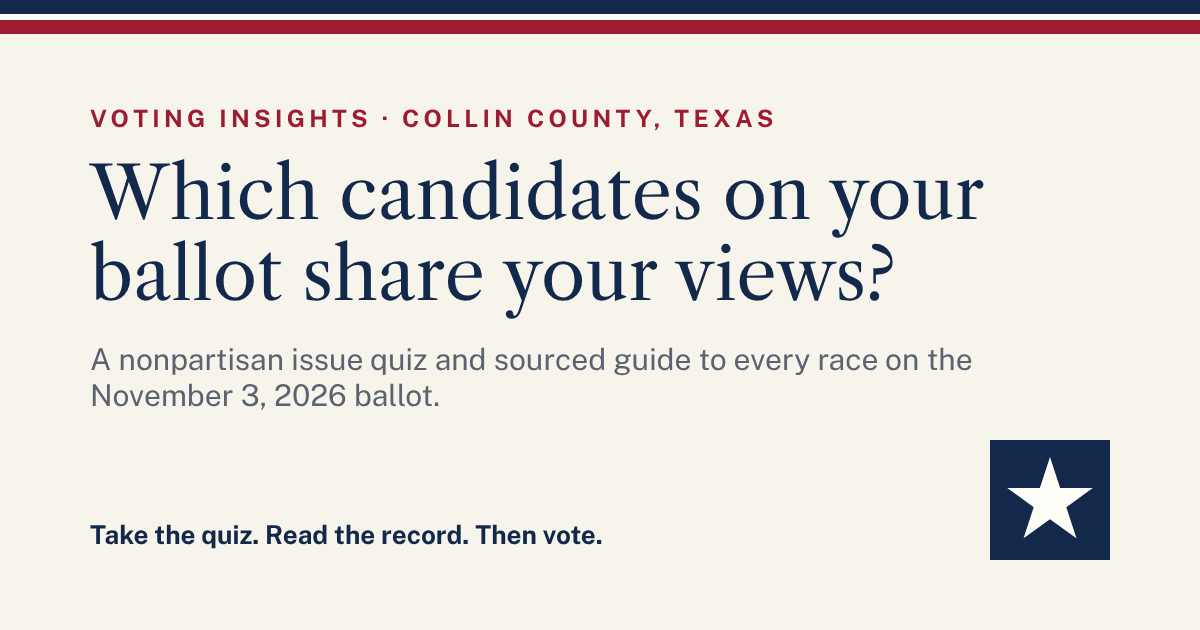
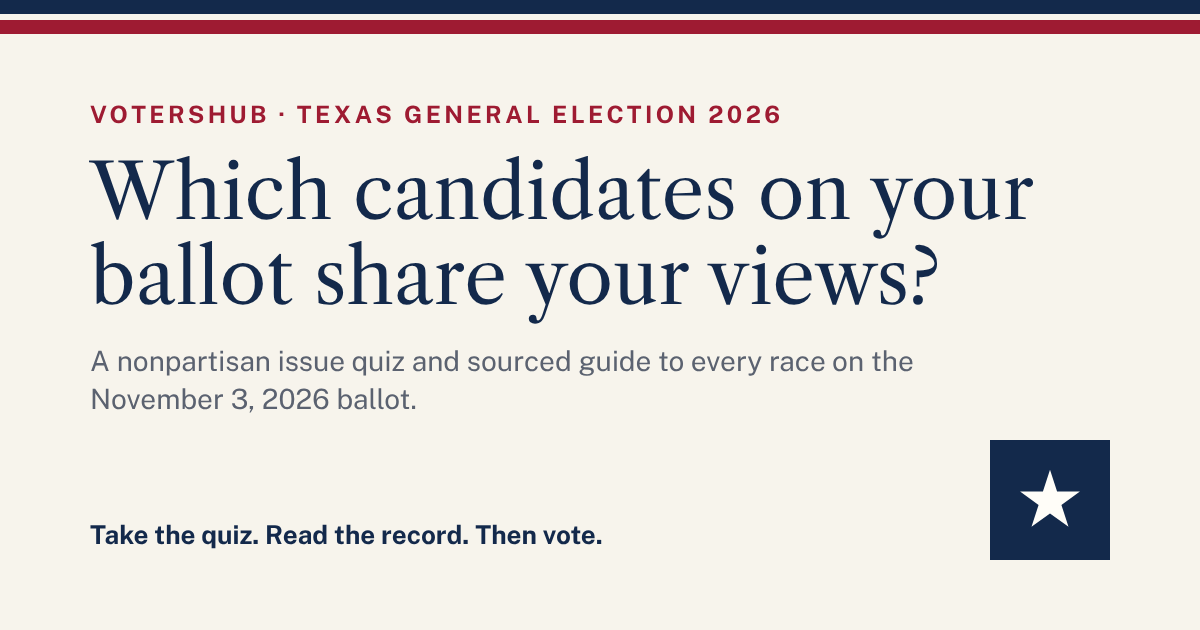
Rename the platform to VotersHub everywhere
Site header and titles, emails, social preview image, legal pages, docs,
and tool names. Browser storage keys keep their internal names so no one
is signed out.

Claude-Session: https://claude.ai/code/session_01BUPGfoTyszLKod55VsLp6Q

diff --git a/server/services/email-templates.js b/server/services/email-templates.js
@@ -32,12 +32,12 @@ function shell(title, inner) {
 <tr><td style="height:4px;background:#FFFDF8;font-size:0">&nbsp;</td></tr>
 <tr><td style="height:4px;background:${RED};font-size:0">&nbsp;</td></tr>
 <tr><td style="padding:24px 28px 8px 28px;font-family:${SERIF}">
-  <div style="font-family:${SANS};font-size:11px;letter-spacing:2px;text-transform:uppercase;color:${MUTED}">Voting Insights &middot; Texas General Election 2026</div>
+  <div style="font-family:${SANS};font-size:11px;letter-spacing:2px;text-transform:uppercase;color:${MUTED}">VotersHub &middot; Texas General Election 2026</div>
   <h1 style="margin:8px 0 0 0;font-size:24px;font-weight:normal;color:${NAVY}">${esc(title)}</h1>
 </td></tr>
 ${inner}
 <tr><td style="padding:20px 28px 28px 28px;border-top:1px solid ${RULE};font-family:${SANS};font-size:12px;color:${MUTED};line-height:1.6">
-  Voting Insights is an independent, nonpartisan guide. Match percentages compare your answers with documented public positions and do not endorse any candidate or party.
+  VotersHub is an independent, nonpartisan guide. Match percentages compare your answers with documented public positions and do not endorse any candidate or party.
   General Election Day is Tuesday, November 3, 2026. Early voting runs October 19 through October 30.
 </td></tr>
 </table></td></tr></table></body></html>`;
@@ -116,19 +116,19 @@ export function passwordResetEmail({ firstName, resetUrl }) {
   const html = shell(
     'Reset your password',
     `<tr><td style="padding:8px 28px 16px 28px;font-family:${SANS};font-size:14px;line-height:1.6">
-      <p style="margin:0 0 12px 0">${esc(firstName)}, we received a request to set a new password for your Voting Insights account.</p>
+      <p style="margin:0 0 12px 0">${esc(firstName)}, we received a request to set a new password for your VotersHub account.</p>
       <p style="margin:0 0 16px 0"><a href="${esc(resetUrl)}" style="display:inline-block;background:${NAVY};color:#FFFDF8;padding:10px 18px;text-decoration:none;font-weight:bold">Choose a new password</a></p>
       <p style="margin:0 0 12px 0">This link works once and expires in one hour. If you did not ask to reset your password, you can ignore this email and your password will not change.</p>
     </td></tr>`
   );
   const text = [
-    `${firstName}, we received a request to set a new password for your Voting Insights account.`,
+    `${firstName}, we received a request to set a new password for your VotersHub account.`,
     '',
     `Choose a new password: ${resetUrl}`,
     '',
     'This link works once and expires in one hour. If you did not ask for this, ignore this email.',
   ].join('\n');
-  return { subject: 'Reset your Voting Insights password', html, text };
+  return { subject: 'Reset your VotersHub password', html, text };
 }
 
 const METHOD_LABEL = { password: 'your email address and password', google: 'your Google account', apple: 'your Apple account' };
@@ -136,7 +136,7 @@ const METHOD_LABEL = { password: 'your email address and password', google: 'you
 export function welcomeEmail({ firstName, method, siteUrl, resetUrl }) {
   const how = METHOD_LABEL[method] || METHOD_LABEL.password;
   const html = shell(
-    'Welcome to Voting Insights',
+    'Welcome to VotersHub',
     `<tr><td style="padding:8px 28px 16px 28px;font-family:${SANS};font-size:14px;line-height:1.6">
       <p style="margin:0 0 12px 0">${esc(firstName)}, your account is ready. You signed up with ${esc(how)}.</p>
       <p style="margin:0 0 8px 0">With your account you can:</p>
@@ -151,12 +151,12 @@ export function welcomeEmail({ firstName, method, siteUrl, resetUrl }) {
     </td></tr>`
   );
   const text = [
-    `${firstName}, your Voting Insights account is ready. You signed up with ${how}.`,
+    `${firstName}, your VotersHub account is ready. You signed up with ${how}.`,
     '',
     `Take the quiz: ${siteUrl}/quiz`,
     `Open My Ballot: ${siteUrl}/my-ballot`,
     '',
     `We will never email you a password. If you did not create this account, reset the password at ${resetUrl}.`,
   ].join('\n');
-  return { subject: 'Welcome to Voting Insights', html, text };
+  return { subject: 'Welcome to VotersHub', html, text };
 }

diff --git a/client/index.html b/client/index.html
@@ -3,15 +3,15 @@
   <head>
     <meta charset="utf-8" />
     <meta name="viewport" content="width=device-width, initial-scale=1" />
-    <title>Voting Insights: 2026 Texas Candidate Guide and Issue Quiz</title>
+    <title>VotersHub: 2026 Texas Candidate Guide and Issue Quiz</title>
     <meta
       name="description"
       content="A nonpartisan guide to the races on Texas ballots for November 3, 2026, with sourced candidate positions and an issue alignment quiz."
     />
     <meta name="theme-color" content="#13294B" />
     <meta property="og:type" content="website" />
-    <meta property="og:site_name" content="Voting Insights" />
-    <meta property="og:title" content="Voting Insights: 2026 Texas Candidate Guide and Issue Quiz" />
+    <meta property="og:site_name" content="VotersHub" />
+    <meta property="og:title" content="VotersHub: 2026 Texas Candidate Guide and Issue Quiz" />
     <meta
       property="og:description"
       content="A nonpartisan guide to the races on Texas ballots for November 3, 2026, with sourced candidate positions and an issue alignment quiz."
@@ -36,7 +36,7 @@
     <header class="masthead">
       <div id="read-progress" aria-hidden="true"></div>
       <div class="wrap">
-        <a class="brand" href="/" aria-label="Voting Insights home">
+        <a class="brand" href="/" aria-label="VotersHub home">
           <svg viewBox="0 0 64 64" aria-hidden="true">
             <rect width="64" height="64" fill="#13294B" />
             <polygon
@@ -45,7 +45,7 @@
             />
           </svg>
           <span
-            ><span class="brand-name">Voting Insights</span
+            ><span class="brand-name">VotersHub</span
             ><span class="brand-sub">Texas General Election &middot; November 3, 2026</span></span
           >
         </a>
@@ -76,7 +76,7 @@
     <footer class="footer">
       <div class="wrap">
         <div>
-          <h2>Voting Insights</h2>
+          <h2>VotersHub</h2>
           <p>
             An independent, nonpartisan guide to the candidates on Texas ballots, starting with Collin County. We are not
             affiliated with any candidate, campaign, political party, or government office, and we do not endorse anyone.

diff --git a/client/js/views/ballot.js b/client/js/views/ballot.js
@@ -247,7 +247,7 @@ export async function renderBallotPrint(view, _params, current) {
         <button type="button" class="btn btn-small" id="do-print">Print this page</button>
       </div>
       <div class="print-head">
-        <span class="eyebrow">Voting Insights &middot; Texas General Election, November 3, 2026</span>
+        <span class="eyebrow">VotersHub &middot; Texas General Election, November 3, 2026</span>
         <h1>${starredOnly ? 'My shortlist' : 'My ballot choices'}</h1>
         <p>${esc(countyLabel(county))}${session.user ? `, prepared for ${esc(session.user.first_name)}` : ''}. Printed ${esc(formatDate(new Date().toISOString(), false))}.</p>
       </div>
@@ -256,7 +256,7 @@ export async function renderBallotPrint(view, _params, current) {
           ? `<table class="ballot print-table"><thead><tr><th>Office</th><th>My choice</th></tr></thead><tbody>${rows}</tbody></table>`
           : `<p>${starredOnly ? 'Your shortlist is empty. Star races or candidates on My Ballot first.' : 'No races found.'}</p>`
       }
-      <p class="small print-foot">Personal notes for use while voting. This list was made by the voter and is not an endorsement by Voting Insights. Your actual ballot depends on your address, so some districts listed here may not appear on yours. Phones and other wireless devices may not be used within 100 feet of voting stations in Texas. Early voting runs October 19 to October 30. Election Day is Tuesday, November 3, 7 a.m. to 7 p.m.</p>
+      <p class="small print-foot">Personal notes for use while voting. This list was made by the voter and is not an endorsement by VotersHub. Your actual ballot depends on your address, so some districts listed here may not appear on yours. Phones and other wireless devices may not be used within 100 feet of voting stations in Texas. Early voting runs October 19 to October 30. Election Day is Tuesday, November 3, 7 a.m. to 7 p.m.</p>
     </div>`;
   $('#do-print', view).addEventListener('click', () => window.print());
 }

diff --git a/client/js/views/pages.js b/client/js/views/pages.js
@@ -86,7 +86,7 @@ export async function renderTerms(view, _p, current) {
     <span class="eyebrow">Legal</span>
     <h1>Terms of Use</h1>
     <p class="muted">Effective October 16, 2026</p>
-    <p>These terms govern your use of Voting Insights (the "Site"). By using the Site you agree to them. If you do not agree, please do not use the Site.</p>
+    <p>These terms govern your use of VotersHub (the "Site"). By using the Site you agree to them. If you do not agree, please do not use the Site.</p>
     <h2>1. Purpose of the Site</h2>
     <p>The Site is an independent, nonpartisan educational resource about candidates on Texas ballots for the November 3, 2026 general election. It is not affiliated with, endorsed by, or paid for by any candidate, campaign, political party, political action committee, or government office. Nothing on the Site is an endorsement of any candidate or party or a recommendation on how to vote.</p>
     <h2>2. Accuracy of information</h2>

diff --git a/server/config.js b/server/config.js
@@ -20,7 +20,7 @@ export const config = {
   isProduction: env.NODE_ENV === 'production' || Boolean(env.VERCEL),
   databaseUrl: clean(env.DATABASE_URL || env.POSTGRES_URL),
   databaseCaCert: env.DATABASE_CA_CERT || '',
-  sqlitePath: env.DATABASE_PATH || 'storage/voting-insights.db',
+  sqlitePath: env.DATABASE_PATH || 'storage/votershub.db',
   adminToken: env.ADMIN_TOKEN || '',
   contactEmail: env.CONTACT_EMAIL || null,
   trustProxy: env.TRUST_PROXY ?? (env.VERCEL ? true : 1),
@@ -42,7 +42,7 @@ export const config = {
     user: env.SMTP_USER || '',
     pass: env.SMTP_PASS || '',
     secure: env.SMTP_SECURE ? env.SMTP_SECURE === 'true' : Number(env.SMTP_PORT) === 465,
-    from: env.MAIL_FROM || 'Voting Insights <no-reply@localhost>',
+    from: env.MAIL_FROM || 'VotersHub <no-reply@localhost>',
   },
 };
 

diff --git a/server/index.js b/server/index.js
@@ -17,7 +17,7 @@ app.get(/^\/(?!api\/).*/, (req, res) => res.sendFile('index.html', { root: clien
 
 app.listen(config.port, () => {
   console.log(
-    `Voting Insights at ${config.publicUrl} | data ${dataVersion} | ` +
+    `VotersHub at ${config.publicUrl} | data ${dataVersion} | ` +
       `database ${config.databaseUrl ? 'Postgres' : config.sqlitePath} | email ${emailConfigured ? 'SMTP' : 'outbox folder'}`
   );
 });

diff --git a/client/js/views/scoring.js b/client/js/views/scoring.js
@@ -115,7 +115,7 @@ function downloadCsv(rows) {
   const blob = new Blob([[header.join(','), ...lines].join('\n')], { type: 'text/csv' });
   const a = document.createElement('a');
   a.href = URL.createObjectURL(blob);
-  a.download = 'voting-insights-score-sheet.csv';
+  a.download = 'votershub-score-sheet.csv';
   document.body.appendChild(a);
   a.click();
   setTimeout(() => {

diff --git a/client/js/ui.js b/client/js/ui.js
@@ -46,7 +46,7 @@ export function toast(msg) {
 }
 
 export function setTitle(t) {
-  document.title = t ? `${t} | Voting Insights` : 'Voting Insights: 2026 Texas Candidate Guide and Issue Quiz';
+  document.title = t ? `${t} | VotersHub` : 'VotersHub: 2026 Texas Candidate Guide and Issue Quiz';
 }
 
 export function sourceLabel(src) {

diff --git a/scripts/check-links.js b/scripts/check-links.js
@@ -36,7 +36,7 @@ function check(url) {
         '--max-time',
         '25',
         '-A',
-        'Mozilla/5.0 (compatible; VotingInsightsLinkCheck/1.0)',
+        'Mozilla/5.0 (compatible; VotersHubLinkCheck/1.0)',
         '-w',
         '%{http_code}',
         url,

diff --git a/server/lib/common-passwords.js b/server/lib/common-passwords.js
@@ -96,4 +96,6 @@ export const COMMON_PASSWORDS = new Set([
   'mypassword',
   'yourpassword',
   'votinginsights',
+  'votershub',
+  'votershub1',
 ]);

diff --git a/scripts/fetch-photos.py b/scripts/fetch-photos.py
@@ -62,7 +62,7 @@ def ssl_context():
 
 
 def download(url):
-    req = urllib.request.Request(url, headers={'User-Agent': 'Mozilla/5.0 (compatible; VotingInsightsPhotoCheck/1.0)', 'Accept': 'image/*'})
+    req = urllib.request.Request(url, headers={'User-Agent': 'Mozilla/5.0 (compatible; VotersHubPhotoCheck/1.0)', 'Accept': 'image/*'})
     with urllib.request.urlopen(req, timeout=20, context=ssl_context()) as res:
         ctype = res.headers.get('Content-Type', '')
         if not ctype.startswith('image/'):

diff --git a/docs/DEPLOYING.md b/docs/DEPLOYING.md
@@ -71,14 +71,14 @@ Resend sends the results emails over SMTP.
 2. **Create an API key.** Open **API Keys**, select **Create API Key**, give it **Sending access**, and limit it to your verified domain. Copy the key when it is shown. Resend shows it only once.
 3. **SMTP settings for this app:**
 
-   | Variable      | Value                                                |
-   | ------------- | ---------------------------------------------------- |
-   | `SMTP_HOST`   | `smtp.resend.com`                                    |
-   | `SMTP_PORT`   | `465`                                                |
-   | `SMTP_SECURE` | `true`                                               |
-   | `SMTP_USER`   | `resend`                                             |
-   | `SMTP_PASS`   | your Resend API key                                  |
-   | `MAIL_FROM`   | `Voting Insights <results@your-verified-domain.com>` |
+   | Variable      | Value                                          |
+   | ------------- | ---------------------------------------------- |
+   | `SMTP_HOST`   | `smtp.resend.com`                              |
+   | `SMTP_PORT`   | `465`                                          |
+   | `SMTP_SECURE` | `true`                                         |
+   | `SMTP_USER`   | `resend`                                       |
+   | `SMTP_PASS`   | your Resend API key                            |
+   | `MAIL_FROM`   | `VotersHub <results@your-verified-domain.com>` |
 
    The address in `MAIL_FROM` must be on the domain you verified.
 
@@ -115,7 +115,7 @@ Add `AUTH_SECRET` in Vercel: a random string of at least 32 characters. Generate
 
 ### Google (free)
 
-1. Go to [console.cloud.google.com](https://console.cloud.google.com), create a project (for example "Voting Insights"), and open **APIs and Services**.
+1. Go to [console.cloud.google.com](https://console.cloud.google.com), create a project (for example "VotersHub"), and open **APIs and Services**.
 2. **OAuth consent screen:** choose **External**, enter the app name, your support email, and your site's home page, privacy policy (`https://your-site/privacy`), and terms (`https://your-site/terms`) links. Add the scopes `openid`, `email`, and `profile`. Publish the app (move it from Testing to In production) so anyone can sign in.
 3. **Credentials, Create credentials, OAuth client ID:** application type **Web application**.
    - Authorized JavaScript origins: `https://your-site`
@@ -125,8 +125,8 @@ Add `AUTH_SECRET` in Vercel: a random string of at least 32 characters. Generate
 ### Apple (requires the Apple Developer Program, $99 per year)
 
 1. At [developer.apple.com](https://developer.apple.com/account), open **Certificates, Identifiers and Profiles**.
-2. **Identifiers, App IDs:** create an App ID (for example `org.yourdomain.votinginsights`) with **Sign in with Apple** enabled.
-3. **Identifiers, Services IDs:** create a Services ID (for example `org.yourdomain.votinginsights.web`). Enable **Sign in with Apple**, select **Configure**, choose the App ID from step 2, and add:
+2. **Identifiers, App IDs:** create an App ID (for example `org.yourdomain.votershub`) with **Sign in with Apple** enabled.
+3. **Identifiers, Services IDs:** create a Services ID (for example `org.yourdomain.votershub.web`). Enable **Sign in with Apple**, select **Configure**, choose the App ID from step 2, and add:
    - Domains: `your-site` (no https://)
    - Return URLs: `https://your-site/api/auth/apple/callback`
 4. **Keys:** create a key with **Sign in with Apple** enabled and linked to the App ID. Download the `.p8` file (Apple lets you download it once) and note the **Key ID**.
